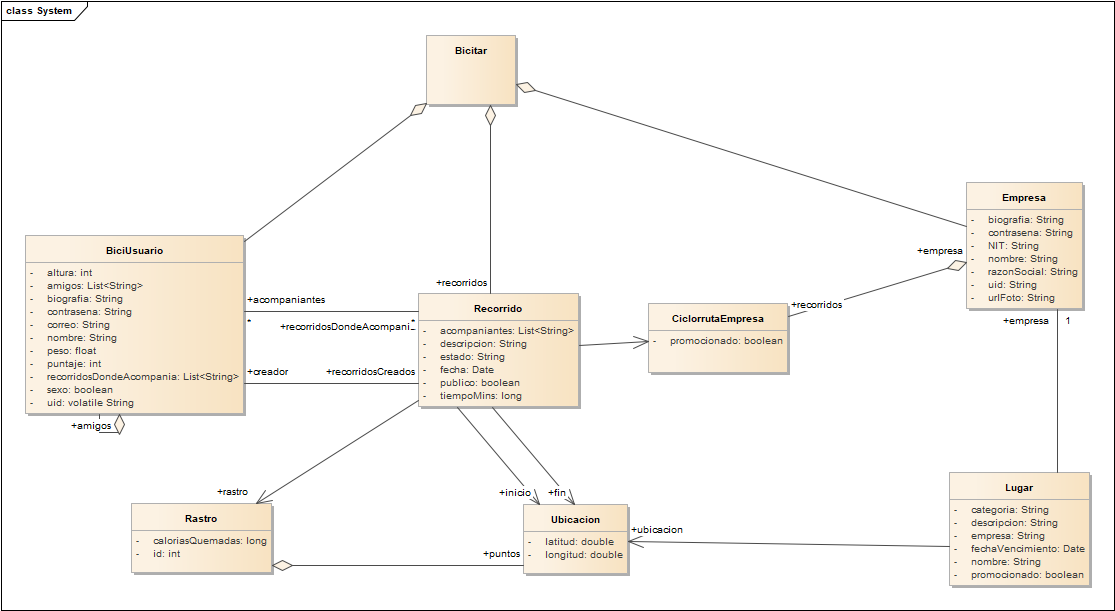
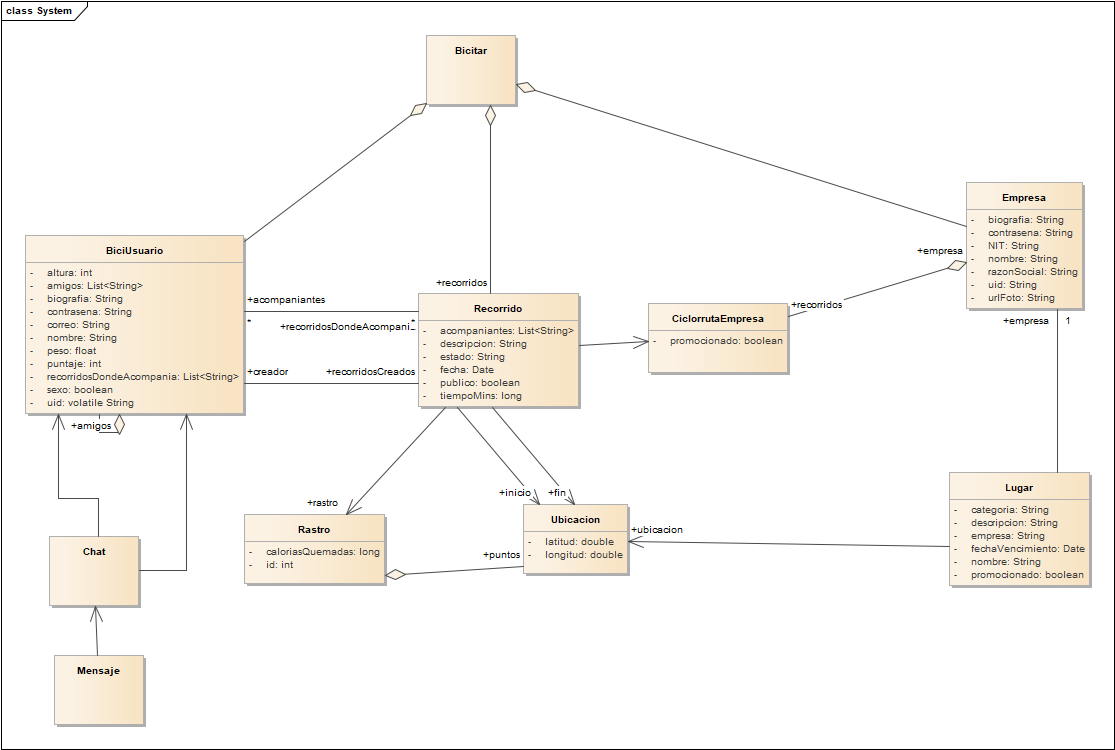
avance chat.

diff --git a/Completo/Bicita/app/src/main/java/com/pujhones/bicita/view/ChatActivity.java b/Completo/Bicita/app/src/main/java/com/pujhones/bicita/view/ChatActivity.java
@@ -1,15 +1,208 @@
 package com.pujhones.bicita.view;
 
+import android.content.Context;
+import android.content.Intent;
+import android.graphics.drawable.Drawable;
+import android.os.StrictMode;
+import android.support.design.widget.FloatingActionButton;
 import android.support.v7.app.AppCompatActivity;
 import android.os.Bundle;
+import android.util.Log;
+import android.view.LayoutInflater;
+import android.view.View;
+import android.view.ViewGroup;
+import android.widget.AdapterView;
+import android.widget.ArrayAdapter;
+import android.widget.ListView;
+import android.widget.TextView;
 
+import com.google.firebase.auth.FirebaseAuth;
+import com.google.firebase.database.DataSnapshot;
+import com.google.firebase.database.DatabaseError;
+import com.google.firebase.database.FirebaseDatabase;
+import com.google.firebase.database.Query;
+import com.google.firebase.database.ValueEventListener;
 import com.pujhones.bicita.R;
+import com.pujhones.bicita.model.BiciUsuario;
+import com.pujhones.bicita.model.ElementoListaMensaje;
+import com.pujhones.bicita.model.Mensaje;
+
+import java.io.IOException;
+import java.io.InputStream;
+import java.net.URL;
+import java.util.ArrayList;
+import java.util.Iterator;
+
+import de.hdodenhof.circleimageview.CircleImageView;
 
 public class ChatActivity extends AppCompatActivity {
 
+    static class ElementoListaViewHolder {
+        TextView contenido;
+        CircleImageView autor;
+    }
+
+    private class CustomArrayAdapter extends ArrayAdapter<ElementoListaMensaje> {
+        private ArrayList<ElementoListaMensaje> list;
+
+        //this custom adapter receives an ArrayList of RowData objects.
+        //RowData is my class that represents the data for a single row and could be anything.
+        public CustomArrayAdapter(Context context, int textViewResourceId,
+                                  ArrayList<ElementoListaMensaje> rowDataList) {
+            //populate the local list with data.
+            super(context, textViewResourceId, rowDataList);
+            this.list = new ArrayList<ElementoListaMensaje>();
+            this.list.addAll(rowDataList);
+        }
+
+        public View getView(final int position, View convertView, ViewGroup parent) {
+            //creating the ViewHolder we defined earlier.
+            ChatActivity.ElementoListaViewHolder holder = new ChatActivity
+                    .ElementoListaViewHolder();
+
+            //creating LayoutInflator for inflating the row layout.
+            LayoutInflater inflator = (LayoutInflater) this.getContext().getSystemService(Context
+                    .LAYOUT_INFLATER_SERVICE);
+
+            //inflating the row layout we defined earlier.
+            convertView = inflator.inflate(R.layout.mensaje_chat, null);
+
+            //setting the views into the ViewHolder.
+            holder.contenido = (TextView) convertView.findViewById(R.id.txtNombre);
+            holder.autor = (CircleImageView) convertView.findViewById(R.id.imgPerfil);
+
+            holder.contenido.setText(list.get(position).getNombre());
+            Context context = holder.autor.getContext();
+
+            Drawable d;
+            InputStream is = null;
+            Log.e(TAG, "Descargando imagen.");
+            try {
+                is = (InputStream) new URL(list.get(position).getPhotoURL()).getContent();
+                d = Drawable.createFromStream(is, null);
+                holder.autor.setImageDrawable(d);
+            } catch (IOException e) {
+                Log.e(TAG, e.getMessage());
+                int idImagen = context.getResources().getIdentifier("horus",
+                        "drawable", context.getPackageName());
+                holder.autor.setImageResource(idImagen);
+            }
+
+            //return the row view.
+            return convertView;
+        }
+    }
+
+    protected final String TAG = "CHAT";
+
+    FirebaseDatabase fireDB;
+
+    ArrayList<ElementoListaMensaje> chat = new ArrayList<>();
+
+    ListView lstMensajes;
+    FloatingActionButton btnAgregar;
+
     @Override
-    protected void onCreate(Bundle savedInstanceState) {
+    public void onCreate(Bundle savedInstanceState) {
         super.onCreate(savedInstanceState);
         setContentView(R.layout.activity_chat);
+
+        StrictMode.ThreadPolicy policy = new StrictMode.ThreadPolicy.Builder().permitAll().build();
+
+        StrictMode.setThreadPolicy(policy);
+
+        fireDB = FirebaseDatabase.getInstance();
+
+        Log.i(TAG, FirebaseAuth.getInstance().getCurrentUser().getUid());
+        Log.i(TAG, FirebaseAuth.getInstance().getCurrentUser().getEmail());
+
+        lstMensajes = (ListView) findViewById(R.id.lstMensajes);
+        btnAgregar = (FloatingActionButton) findViewById(R.id.fab);
+
+
+        btnAgregar.setOnClickListener(new View.OnClickListener() {
+            @Override
+            public void onClick(View view) {
+                Intent in = new Intent(getBaseContext(), AgregarAmigosActivity.class);
+                startActivity(in);
+            }
+        });
+
+        setTitle("Chat");
+
+        Log.e(TAG, "Cargando mensajes.");
+
+        loadMensajesFromDB();
+    }
+
+    public void loadMensajesFromDB() {
+        chat = new ArrayList<>();
+        Query queryMensajes1 = fireDB.getReference("amistades/").orderByChild("amigo1").equalTo(FirebaseAuth.getInstance().getCurrentUser().getUid());
+        Query queryMensajes2 = fireDB.getReference("amistades/").orderByChild("amigo2").equalTo(FirebaseAuth.getInstance().getCurrentUser().getUid());
+        queryMensajes1.addValueEventListener(new ValueEventListener() {
+            @Override
+            public void onDataChange(DataSnapshot dataSnapshot) {
+                queryBiciUsuariosSnapshot(dataSnapshot, "amigo2");
+            }
+
+            @Override
+            public void onCancelled(DatabaseError databaseError) {
+                // Getting Post failed, log a message
+                Log.w(TAG, ":onCancelled", databaseError.toException());
+                // ...
+            }
+        });
+
+        queryMensajes2.addValueEventListener(new ValueEventListener() {
+            @Override
+            public void onDataChange(DataSnapshot dataSnapshot) {
+                queryBiciUsuariosSnapshot(dataSnapshot, "amigo1");
+            }
+
+            @Override
+            public void onCancelled(DatabaseError databaseError) {
+                // Getting Post failed, log a message
+                Log.w(TAG, ":onCancelled", databaseError.toException());
+                // ...
+            }
+        });
+    }
+
+    protected void queryBiciUsuariosSnapshot(DataSnapshot dataSnapshot, String amigoFieldName) {
+        Iterator<DataSnapshot> iter = dataSnapshot.getChildren().iterator();
+        while (iter.hasNext()) {
+            DataSnapshot ds = iter.next();
+            if (ds.child("estado").getValue(String.class).equals("aceptado")) {
+                String uid = ds.child(amigoFieldName).getValue(String.class);
+                Query queryAmigo = fireDB.getReference("biciusuarios/" + uid);
+                Log.e(TAG, uid);
+                queryAmigo.addValueEventListener(new ValueEventListener() {
+                    @Override
+                    public void onDataChange(DataSnapshot dataSnapshot2) {
+                        Mensaje u = dataSnapshot2.getValue(Mensaje.class);
+                        u.setAutor(dataSnapshot2.getKey());
+                        chat.add(new ElementoListaMensaje(u.getContenido(), u.getAutor()));
+                        Log.i(TAG, chat.toString());
+                        cargarChatEnVista();
+                    }
+
+                    @Override
+                    public void onCancelled(DatabaseError databaseError) {
+                        // Getting Post failed, log a message
+                        Log.w(TAG, ":onCancelled", databaseError.toException());
+                        // ...
+                    }
+                });
+            }
+
+        }
+    }
+
+    protected void cargarChatEnVista() {
+        ChatActivity.CustomArrayAdapter dataAdapter = new
+                ChatActivity.CustomArrayAdapter(getBaseContext(), R.id.txtMensaje,
+                chat);
+        lstMensajes.setAdapter(dataAdapter);
+        Log.e(TAG, chat.toString());
     }
 }

diff --git a/Completo/Bicita/app/src/main/java/com/pujhones/bicita/model/ElementoListaMensaje.java b/Completo/Bicita/app/src/main/java/com/pujhones/bicita/model/ElementoListaMensaje.java
@@ -1,0 +1,36 @@
+package com.pujhones.bicita.model;
+
+
+public class ElementoListaMensaje {
+    String contenido;
+    String photoURL;
+
+    public ElementoListaMensaje(String nombre, String photoURL) {
+        this.contenido = nombre;
+        this.photoURL = photoURL;
+    }
+
+    @Override
+    public String toString() {
+        return "ElementoListaAmigo{" +
+                "nombre='" + contenido + '\'' +
+                ", photoURL='" + photoURL + '\'' +
+                '}';
+    }
+
+    public String getNombre() {
+        return contenido;
+    }
+
+    public void setNombre(String contenido) {
+        this.contenido = contenido;
+    }
+
+    public String getPhotoURL() {
+        return photoURL;
+    }
+
+    public void setPhotoURL(String photoURL) {
+        this.photoURL = photoURL;
+    }
+}

diff --git a/Completo/Bicita/app/src/main/java/com/pujhones/bicita/view/ActualizarPerfilActivity.java b/Completo/Bicita/app/src/main/java/com/pujhones/bicita/view/ActualizarPerfilActivity.java
@@ -126,9 +126,9 @@ public class ActualizarPerfilActivity extends AppCompatActivity {
                 String str = dataSnapshot.getValue().toString();
                 Map<String, String> obj = (Map<String, String>) dataSnapshot.getValue();
                 nombre.setText(obj.get("nombre"));
-                peso.setText(obj.get("peso"));
-                altura.setText(obj.get("altura"));
-                correo.setText(obj.get("correo"));
+                peso.setText(obj.get("peso").toString());
+                altura.setText(obj.get("altura").toString());
+                correo.setText(obj.get("correo").toString());
 
                /* StorageReference foto = storageRef.child("").*/
             }

diff --git a/Completo/Bicita/app/src/main/java/com/pujhones/bicita/model/Mensaje.java b/Completo/Bicita/app/src/main/java/com/pujhones/bicita/model/Mensaje.java
@@ -1,0 +1,28 @@
+package com.pujhones.bicita.model;
+
+import java.util.Date;
+
+/**
+ * Created by Juan on 1/11/2017.
+ */
+
+public class Mensaje {
+
+    protected String autor;
+    protected String contenido;
+    protected Date fecha;
+
+    public String getAutor() {
+        return autor;
+    }
+
+    public void setAutor(String autor) { this.autor = autor; }
+
+    public String getContenido() { return contenido; }
+
+    public void setContenido(String contenido) { this.contenido = contenido; }
+
+    public Date getFecha() { return fecha; }
+
+    public void setFecha(Date fecha) { this.fecha = fecha; }
+}
